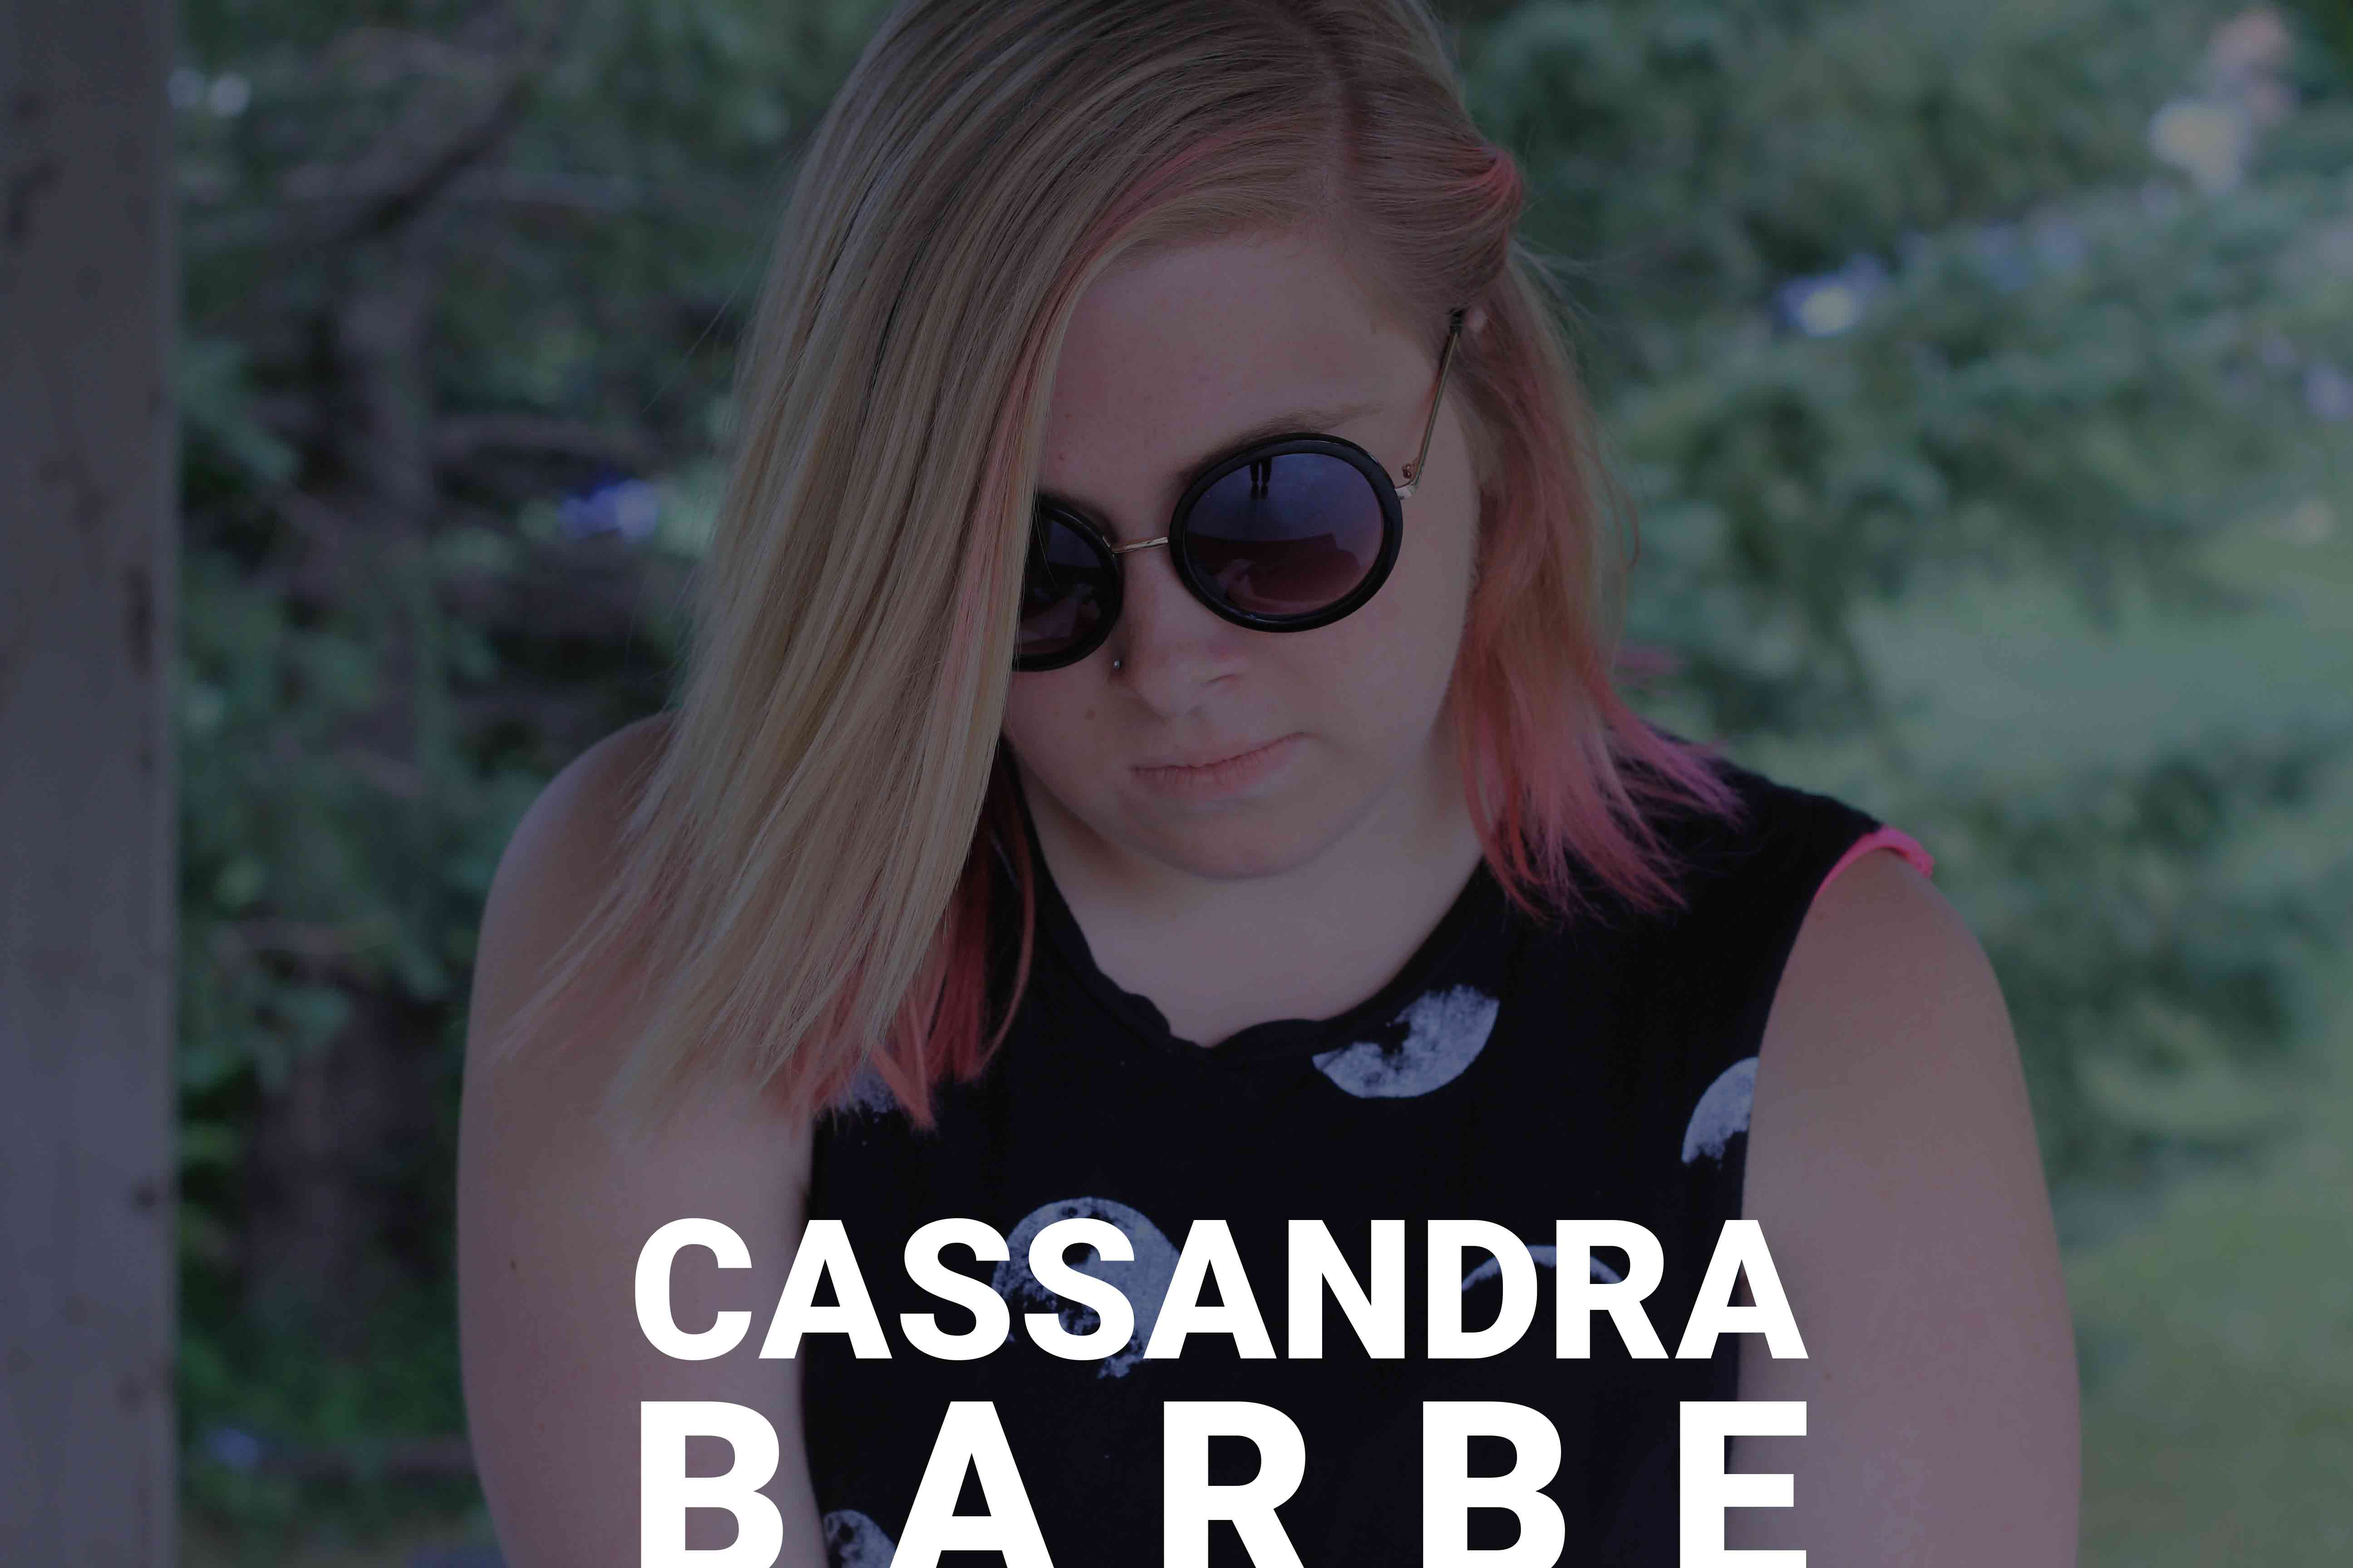
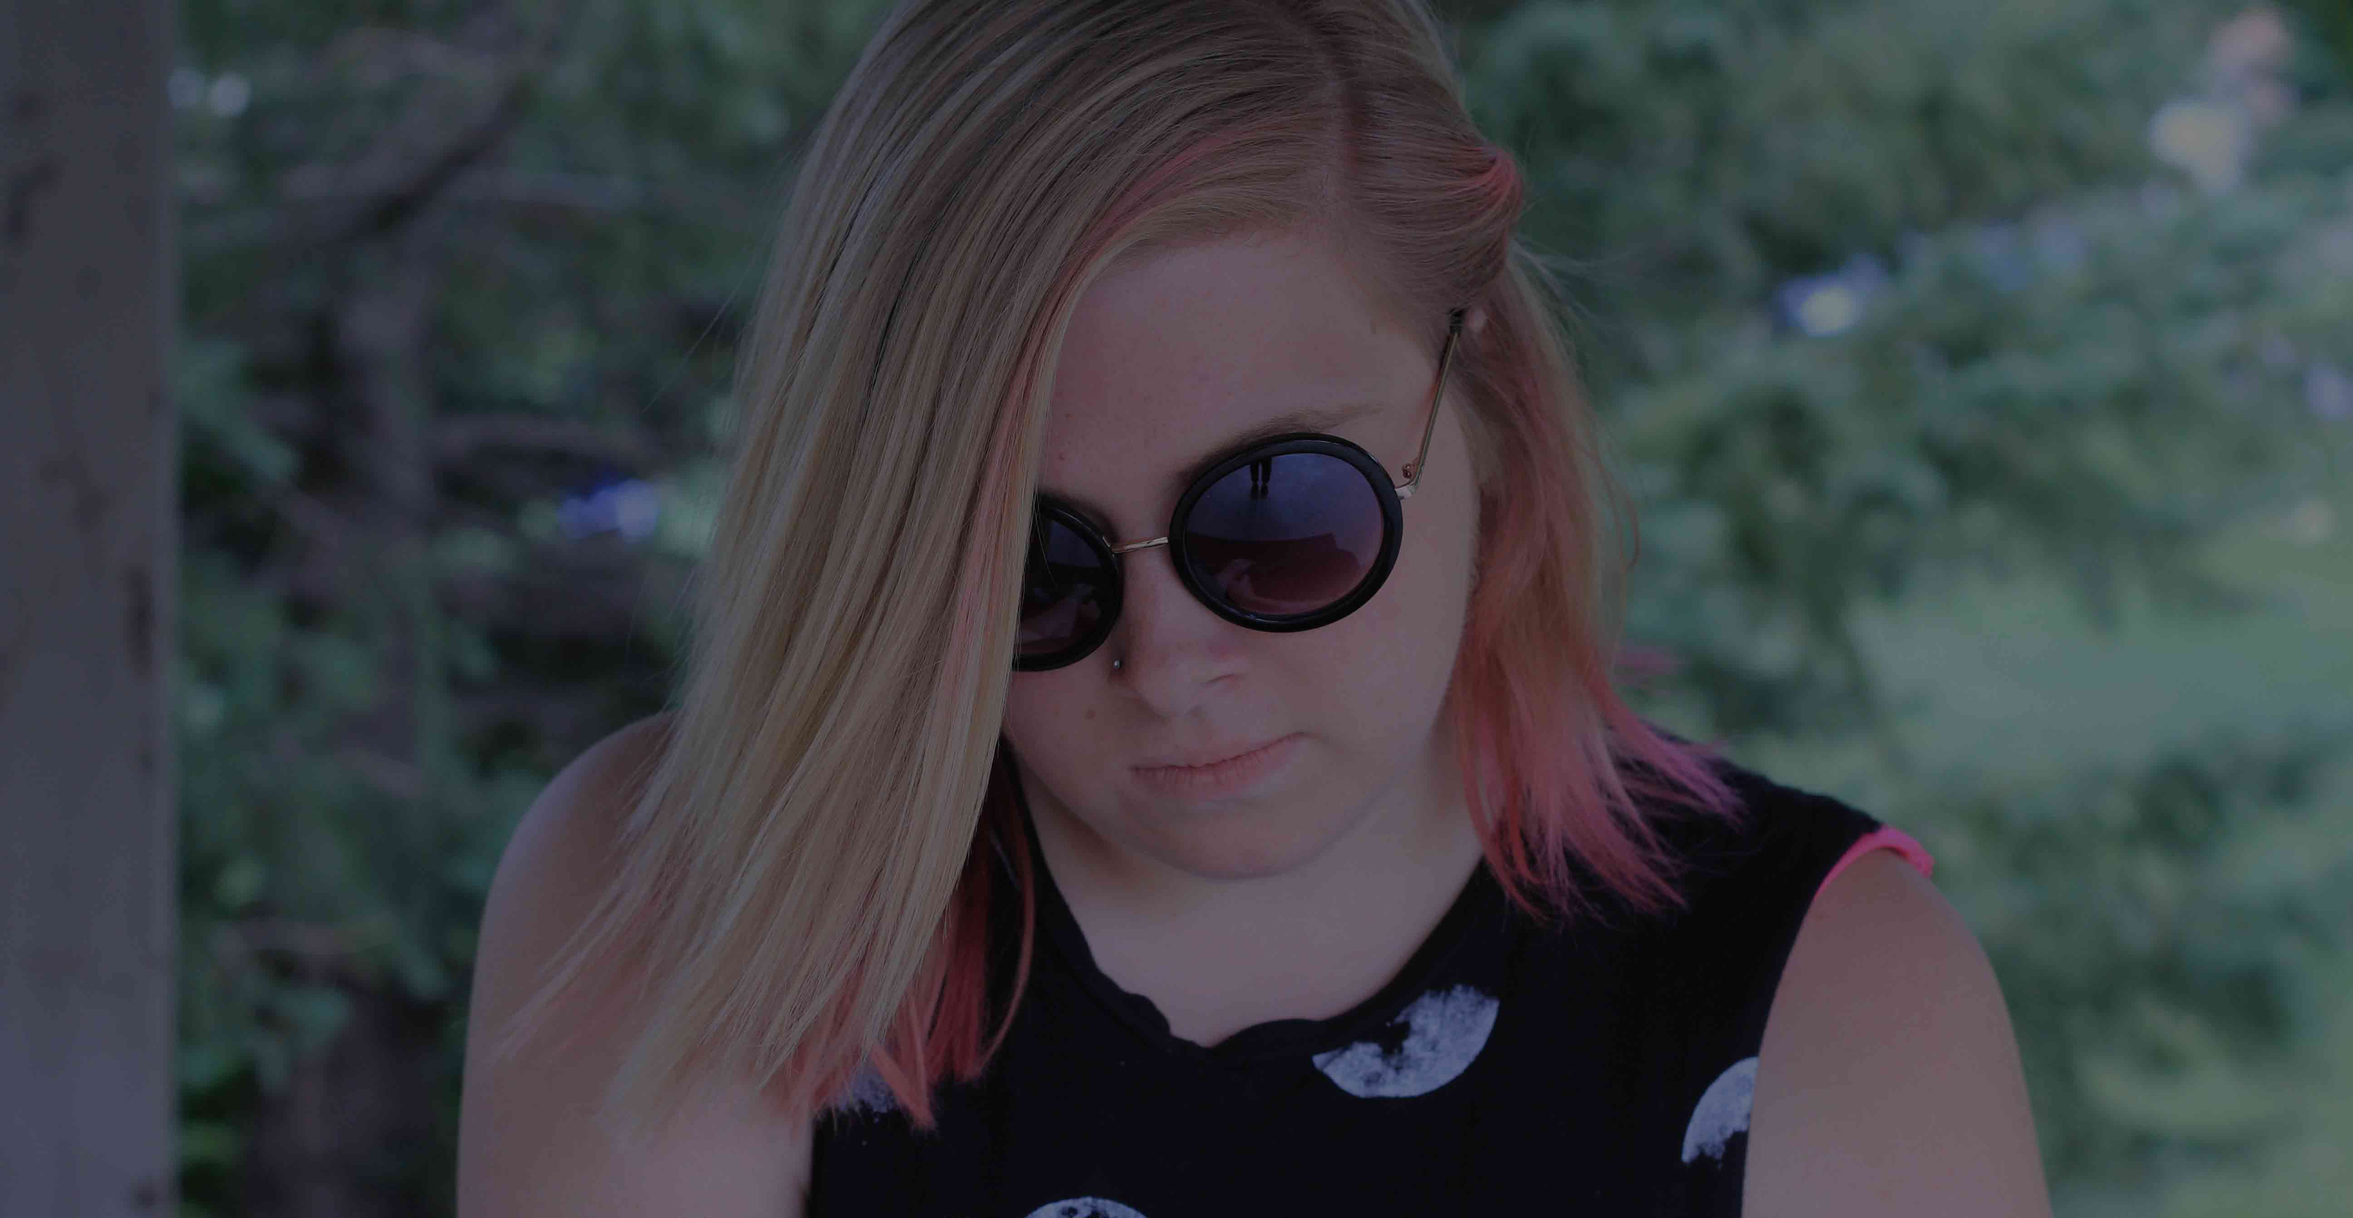
print business card website Media print done

diff --git a/index.html b/index.html
@@ -11,35 +11,38 @@
     <link href='https://fonts.googleapis.com/css?family=Roboto:400,900italic|Quicksand' rel='stylesheet' type='text/css'>
     <link href="css/main.css" rel="stylesheet">
 </head>
-
+<body>
 <figure>
         <img class="banner" src="images/me.jpg" alt="me"></img>
 </figure>
 
 <div class="contact">
+  <h2> CASSANDRA BARBE </h2>
   <p>  cassandra.barbe@gmail.com
-  <br> (613)-668-9850 </p>
+  <br> (613)-668-9850
+  <br> Graphic Designer | Student </p>
 </div>
 
 <header class="masthead">
 
 <div class="floaticons">
-  <img class="icons" src="images/twitter.svg">
-  <img class="icons" src="images/facebook.svg">
-  <img class="icons-2" src="images/instagram.svg">
-  <img class="icons-2" src="images/pinterest.svg">
+  <a href="https://twitter.com/uhhcassandra"></a><img class="icons" src="images/twitter.svg">
+  <a href="https://www.facebook.com/cassandra.barbe2"></a><img class="icons" src="images/facebook.svg">
+  <a href="https://instagram.com/cass.wbu/"></a><img class="icons-2" src="images/instagram.svg">
+  <a href="https://www.pinterest.com/cassandrabarbe2/"></a><img class="icons-2" src="images/pinterest.svg">
 <div>
 </header>
 
-<body>
 
 <main class="padding">
 
-  <h2 id="whoiam"> WHO I AM</h2>
+<h3 id="whoiam"> WHO I AM</h2>
 
-<p> My name is Cassandra, Cass for short. I'm a second year graphic design student at Algonquin College.</p>
+<div class="me">
+  <p> My name is Cassandra, Cass for short. I'm a second year graphic design student at Algonquin College.</p>
 <p>From a young age i loved to paint and draw, I was an artistic kid. My favourite movie is 13 going on 30, this is how i figured out that I wanted to go into graphic design.
 In the movie, the main character works at a magazine compagny and has to redesign the magazine layout, that’s what i would love to do for AP (alternative press magazine) </p>
+</div>
 
 </main>
 
@@ -54,9 +57,5 @@ In the movie, the main character works at a magazine compagny and has to redesig
 
 </body>
 
-
-
-<footer>
-</footer>
 
 </html>

diff --git a/css/main.css b/css/main.css
@@ -37,8 +37,16 @@ h2{
   text-align: center;
   padding-left: 0.2em;
   margin: 0;
-
 }
+
+h3{
+  font-size: 125%;
+  color: grey;
+  text-align: center;
+  padding-left: 0.2em;
+  margin: 0;
+}
+
 .padding{
   padding-top: 0.4em;
 }
@@ -144,4 +152,50 @@ header{
 
 }
 
+}
+
+@media print{
+
+  main a::after {
+    content: " (" attr(href) ")";
+    color: #999;
+  }
+
+  .bottom{
+    display:none;
+  }
+
+  .icons{
+    display:none;
+  }
+
+  .icons-2{
+    display: none;
+  }
+
+  .me{
+    display: none;
+  }
+
+  .whoiam{
+    display: none;
+  }
+
+  h3{
+    display: none;
+  }
+
+  h2{
+    padding-top: 1em;
+  }
+
+  .banner{
+    display: none;
+  }
+
+  body{
+    border: dashed black 1px;
+    width: 3.5in;
+    height: 2in;
+  }
 }
